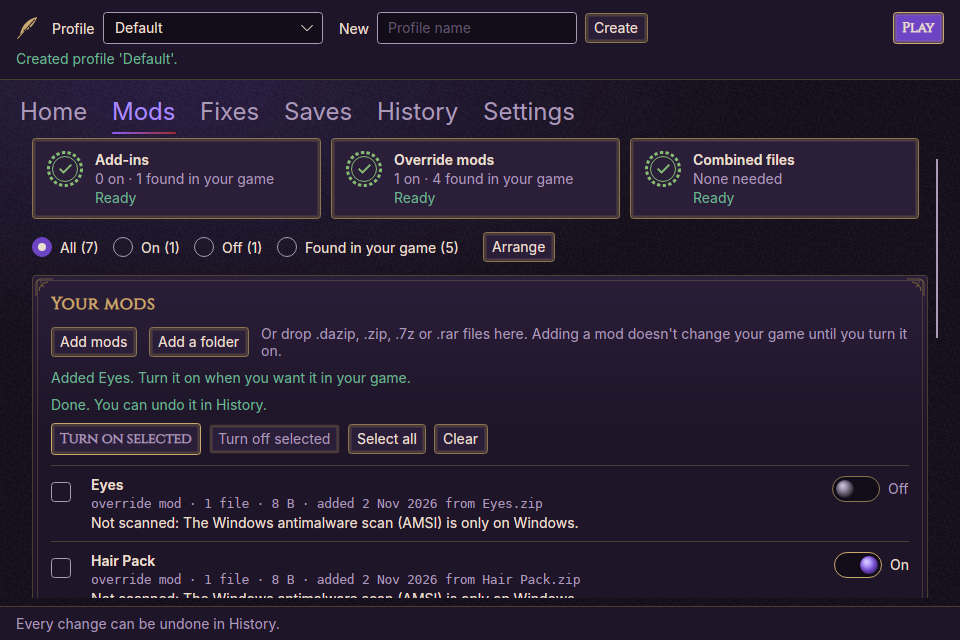
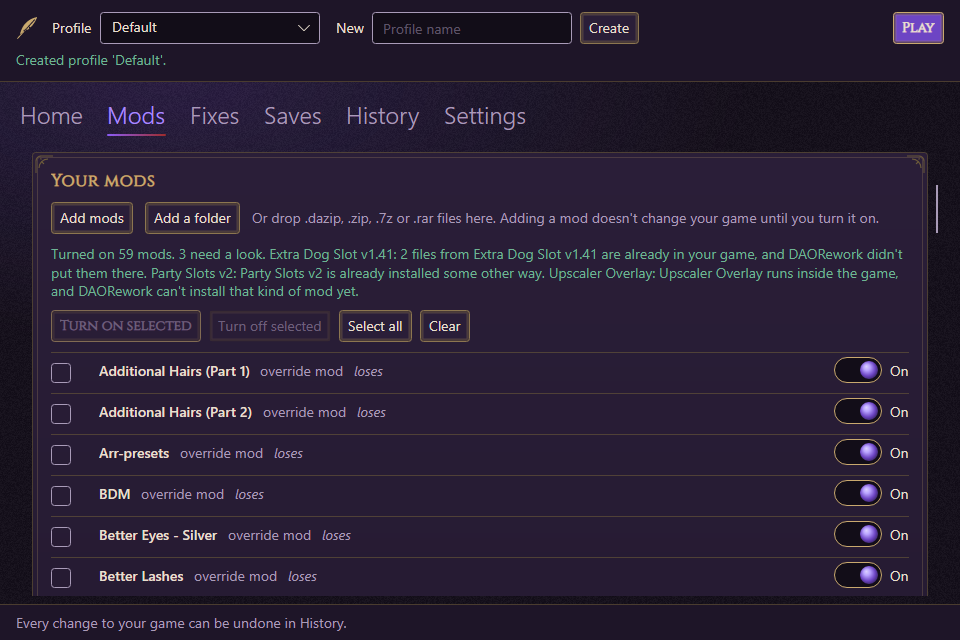
docs(nexus): the page and website for 0.6.0 (P2.6-72)
v0.6.0 is published, so the website's Check your download gives 0.6.0 and
the SHA-256 from the release's .sha256 file. The website and the Nexus
description gain Find the problem mod, What changed, keeping one copy of
each and conflicts ranked by what could break quests, and their pictures,
which showed the 0.4.0 rows, are the README's 0.6.0 ones plus retaken
Move from Vortex and New downloads. The cover stays: rebuilt from today's
Home it would read Not checked yet.

The owner's hand checks are crossed off the release draft.

diff --git a/site/public/index.html b/site/public/index.html
@@ -21,7 +21,7 @@
         <a class="button" href="#download">Download</a>
         <a class="button ghost" href="#check">Check your download</a>
       </p>
-      <img class="cover" src="/images/app/home.png" alt="Home: ready to play, the add-ins, override mods and combined files at a glance, and what is worth a look" width="960" height="640">
+      <img class="cover" src="/images/app/home.png" alt="Home: the next step, the last change with Undo, and the add-ins, override mods and combined files at a glance" width="960" height="640">
     </div>
   </header>
 
@@ -33,11 +33,13 @@
         <li><strong>Moves your mods over from Vortex.</strong> <em>Move from Vortex</em> takes you through it a step at a time: copy them, purge in Vortex, then turn them on in the same order. It has only been run on simulated Vortex records so far, and doesn't cover add-ins Vortex placed yet.</li>
         <li><strong>Picks up new downloads, if you turn it on.</strong> When you come back from your browser, the mods you downloaded are offered on the Mods page. Nothing is added without a click.</li>
         <li><strong>Adds mods safely.</strong> Add a <code>.dazip</code>, <code>.zip</code>, <code>.7z</code> or <code>.rar</code>. Turning a mod on shows a preview of exactly what will be copied, replaced or removed, and nothing changes until you apply it. A backup is taken first.</li>
-        <li><strong>Shows conflicts.</strong> For every file two mods share, see whose copy the game uses and what that means, and arrange them. Files inside <code>.erf</code> archives are compared too, though there DAORework can't tell which copy the game uses.</li>
+        <li><strong>Finds the mod behind a problem.</strong> <em>Find the problem mod</em> turns off half your mods, you play and say whether the problem is still there, and it repeats until one is left: about 8 rounds for 137 mods. <em>What changed</em> shows what's new since your last game with other mods, with a way back.</li>
+        <li><strong>Keeps one copy of each mod.</strong> Adding a mod looks first and offers to take over what you already have, and <em>Keep one of each</em> clears the copies a library builds up, from one preview. Removed copies go to the Recycle Bin.</li>
+        <li><strong>Shows conflicts, most serious first.</strong> For every file two mods share, see whose copy the game uses and what that means, and arrange them. What could break quests comes before what only changes how things look. Files inside <code>.erf</code> archives are compared too, though there DAORework can't tell which copy the game uses.</li>
         <li><strong>Hair, head and colour mods work together.</strong> When several mods ship the character creator's <code>chargenmorphcfg.xml</code>, DAORework combines them, so every mod's hairs, heads and colours show.</li>
         <li><strong>Checks every mod.</strong> Your own antivirus scans it before it is kept, programs inside a mod are never installed, and a download that differs from the official one is pointed out.</li>
         <li><strong>Turns on DXVK</strong>, and <strong>the 4 GB patch on copies that allow it</strong> (GOG, EA App). Steam's own executable is protected and Steam will not start it once patched, so DAORework leaves the Steam copy alone and tells you if it was patched before. It notices when Steam's Verify integrity has undone a fix.</li>
-        <li><strong>Checks your game</strong> and suggests what is worth a look, and backs up your saves. <em>Home</em> says whether the game is ready to play, and <em>History</em> lists every change, each with <em>Undo to here</em>.</li>
+        <li><strong>Checks your game</strong> and suggests what is worth a look, and backs up your saves. <em>Home</em> says whether the game is ready to play, and what to do next, including when your mods are in a documents folder the game doesn't read. <em>History</em> lists every change, each with <em>Undo to here</em>.</li>
       </ul>
       <p class="note">It never downloads mods or game files, and never sends anything over the internet. Everything stays on your computer.</p>
     </section>
@@ -45,10 +47,12 @@
     <section id="screens">
       <h2>See it</h2>
       <div class="gallery">
-        <figure><img src="/images/app/mods.png" alt="The Mods page with on/off switches" width="960" height="640" loading="lazy"><figcaption>Every mod on one page, each with its switch. The cards on top say whether each kind is ready.</figcaption></figure>
+        <figure><img src="/images/app/mods.png" alt="The Mods page, one line for each mod with its switch" width="960" height="640" loading="lazy"><figcaption>Every mod on one line, with its switch. Search, sort, and turn many on at once.</figcaption></figure>
         <figure><img src="/images/app/preview.png" alt="The preview before turning a mod on" width="960" height="640" loading="lazy"><figcaption>Turning a mod on shows a preview first. Nothing changes until you press Apply.</figcaption></figure>
         <figure><img src="/images/app/arrange.png" alt="Arranging two mods that share a file" width="960" height="640" loading="lazy"><figcaption>Arrange: see whose copy of a shared file the game uses, and what that means.</figcaption></figure>
         <figure><img src="/images/app/manage.png" alt="Managing mods found in the game" width="960" height="640" loading="lazy"><figcaption>Already modded by hand? Manage those mods without reinstalling them.</figcaption></figure>
+        <figure><img src="/images/app/combined-files.png" alt="Combined files, with what could break quests first" width="960" height="640" loading="lazy"><figcaption>Combined files: what could break quests first, then what only changes how things look.</figcaption></figure>
+        <figure><img src="/images/app/problem-search.png" alt="A round of Find the problem mod" width="960" height="640" loading="lazy"><figcaption>Find the problem mod: play, say whether it still happens, and it narrows it down.</figcaption></figure>
         <figure><img src="/images/app/fixes.png" alt="The Fixes tab" width="960" height="640" loading="lazy"><figcaption>DXVK, and the 4 GB patch where the copy allows it, turned on and off safely.</figcaption></figure>
         <figure><img src="/images/app/history.png" alt="Undoing a change in History" width="960" height="640" loading="lazy"><figcaption>Every change is backed up and can be undone, after you confirm.</figcaption></figure>
         <figure><img src="/images/app/themes.png" alt="The theme picker in Settings" width="960" height="640" loading="lazy"><figcaption>Four built-in themes.</figcaption></figure>
@@ -71,13 +75,13 @@
       <h2>Check your download</h2>
       <p>From 0.3.1, <code>DAORework.exe</code> and <code>dao.exe</code> are code-signed: right-click either one, choose <strong>Properties</strong>, then <strong>Digital Signatures</strong> to see the publisher. A new publisher has to build up reputation with Windows, so SmartScreen may still say it protected your PC on the first releases. If it does, choose <strong>More info</strong>, then <strong>Run anyway</strong>, after checking the zip one of these ways:</p>
       <dl class="release">
-        <dt>Latest release</dt><dd>0.5.0</dd>
-        <dt>File</dt><dd><code>DAORework-0.5.0-win-x64.zip</code></dd>
-        <dt>SHA-256</dt><dd><code class="hash">07754cbf2ed4f152cac3ec221bfd4b1f30d28f27ce2e66d14b2d572d2f2979ee</code></dd>
+        <dt>Latest release</dt><dd>0.6.0</dd>
+        <dt>File</dt><dd><code>DAORework-0.6.0-win-x64.zip</code></dd>
+        <dt>SHA-256</dt><dd><code class="hash">8224b8a831ead3f509261c9aaf51b3f8c2447f9c09da494b4a2c697fbe2d5fcd</code></dd>
       </dl>
       <ol class="steps">
-        <li><strong>Checksum:</strong> in PowerShell, run <code>Get-FileHash DAORework-0.5.0-win-x64.zip</code> and compare the hash with the one above and with the release's <code>.sha256</code> file. This page is hosted separately from the downloads, so both have to agree.</li>
-        <li><strong>Build attestation:</strong> with the <a href="https://cli.github.com/">GitHub CLI</a>, run <code>gh attestation verify DAORework-0.5.0-win-x64.zip --repo arastella625/DAORework</code>. It proves the zip was built by the project's own release workflow from its published source, and not changed since.</li>
+        <li><strong>Checksum:</strong> in PowerShell, run <code>Get-FileHash DAORework-0.6.0-win-x64.zip</code> and compare the hash with the one above and with the release's <code>.sha256</code> file. This page is hosted separately from the downloads, so both have to agree.</li>
+        <li><strong>Build attestation:</strong> with the <a href="https://cli.github.com/">GitHub CLI</a>, run <code>gh attestation verify DAORework-0.6.0-win-x64.zip --repo arastella625/DAORework</code>. It proves the zip was built by the project's own release workflow from its published source, and not changed since.</li>
       </ol>
     </section>
 

diff --git a/docs/release/nexus/README.md b/docs/release/nexus/README.md
@@ -35,24 +35,23 @@ Nexus as soon as the website has them (it rebuilds when `main` changes).
 
 Also upload them to the mod's **Images** tab, so they appear in its gallery: the files in
 [site/public/images/nexus](../../../site/public/images/nexus), `00-cover.png` as the main image, then the screenshots
-in order, each with its line from [captions.txt](captions.txt). Remove the 0.3.x pictures from the gallery at the same
-time; they show the old tabs. (Or use your own screenshots from a real install, which show Windows paths, real mod
-names and a real antivirus result.)
+in order, each with its line from [captions.txt](captions.txt). Replace the gallery's pictures at the same time, so it
+shows the window that can be downloaded. (Or use your own screenshots from a real install, which show Windows paths,
+real mod names and a real antivirus result.)
 
-Where the pictures come from:
-- `01` to `08` are the App tests' headless screenshots (`dotnet test tests/DAORework.App.Tests`, with
-  `DAOREWORK_SCREENSHOT_DIR` set to a folder), with made-up mods: `21-next-steps`, `32-mods-one-page`,
-  `28-adopt-selected`, `30-chargenmorph-combined`, `17-load-order`, `19-fixes-undone`, `15-changes-rollback` and
-  `24-look-with-picture`. Taken on Linux, so a mod's antivirus line reads *Not scanned*, which is what DAORework says
-  where the Windows scan is not available.
-- `09` to `11` are the screenshots from the pull requests that added those features, also from the App tests with
-  made-up mods: [Move from Vortex](../../screenshots/p2.5-31/01-card.png),
-  [New downloads](../../screenshots/p3-10/01-new-downloads.png) and
-  [shared files inside archives](../../screenshots/p3-07/01-packed.png).
-- `00-cover.png` is [cover.html](cover.html) at 1920x1080, built from `01-home.png` and `02-mods.png`.
+Where the pictures come from (retaken for 0.6.0, all from the App tests with made-up mods):
+- `01` to `07`, `11` and `12` are copies of the README's pictures (`docs/screenshots/readme/`), mostly the real-scale
+  library: `01-next-steps`, `02-library`, `05-adopt-plan`, `03-activate-plan`, `04-load-order`, `06-fixes`,
+  `07-rollback`, `10-combined-files` and `11-problem-search`. Copy them again when those are retaken.
+- `08-your-look.png` is the README's `09-custom-look.png`, unchanged since 0.4.0.
+- `09` and `10` are the App tests' `38-move-from-vortex` and `39-new-downloads` (`dotnet test
+  tests/DAORework.App.Tests`, with `DAOREWORK_SCREENSHOT_DIR` set to a folder).
+- `00-cover.png` is [cover.html](cover.html) at 1920x1080 (headless Edge: `msedge --headless --window-size=1920,1080
+  --screenshot=<file> <cover.html>`). It is still the one built from the 0.4.0 `01-home.png` and `02-mods.png`, since
+  its Home reads *Ready to play*; rebuilt from today's pictures it would read *Not checked yet*. Rebuild it when a
+  Home picture shows the game ready.
 
-They show the gilded-tome style (P2.5-28), taken from its pull request. If the window's look changes again, retake
-`01` to `08` from the same tests and the cover from `cover.html`.
+They show the gilded-tome style (P2.5-28). If the window's look changes again, retake them as above.
 
 ## On upload day
 

diff --git a/docs/release/0.6.0-draft.md b/docs/release/0.6.0-draft.md
@@ -41,10 +41,10 @@ DAORework now tells you what to do next, and stops you ending up with two copies
 
 ## Before this ships
 
-- See Home's *Find the problem mod* land at the search on a real library. On 2026-11-06 it opened below the search once, and that wasn't reproduced in tests.
-- See the *Checking* cards on a real library, and play a whole search down to one mod in the game.
+- ~~See Home's *Find the problem mod* land at the search on a real library. On 2026-11-06 it opened below the search once, and that wasn't reproduced in tests.~~ Done by the owner on 2026-11-11.
+- ~~See the *Checking* cards on a real library, and play a whole search down to one mod in the game.~~ Done by the owner on 2026-11-11.
 - ~~Try *Keep one of each*, the Recycle Bin and *Undo* on a library with copies, which the owner's no longer has.~~ Done on scratch data on 2026-11-10, in the real window with the real Recycle Bin. It found P2.6-76 and P2.6-77.
 - ~~Run `scripts/verify-real-install.ps1` on the owner's PC.~~ Done on 2026-11-10: no FAIL after P2.6-74.
 - ~~Accept or change ADR-0044 and ADR-0045.~~ Accepted on 2026-11-10. ADR-0040 stays Proposed.
 - ~~Replace the README's screenshots, which show the old rows.~~ Done in the release PR.
-- After the release, update the website's *Check your download* by hand.
+- ~~After the release, update the website's *Check your download* by hand.~~ Done with the Nexus page's pictures and text, after `v0.6.0` was published on 2026-11-11.
